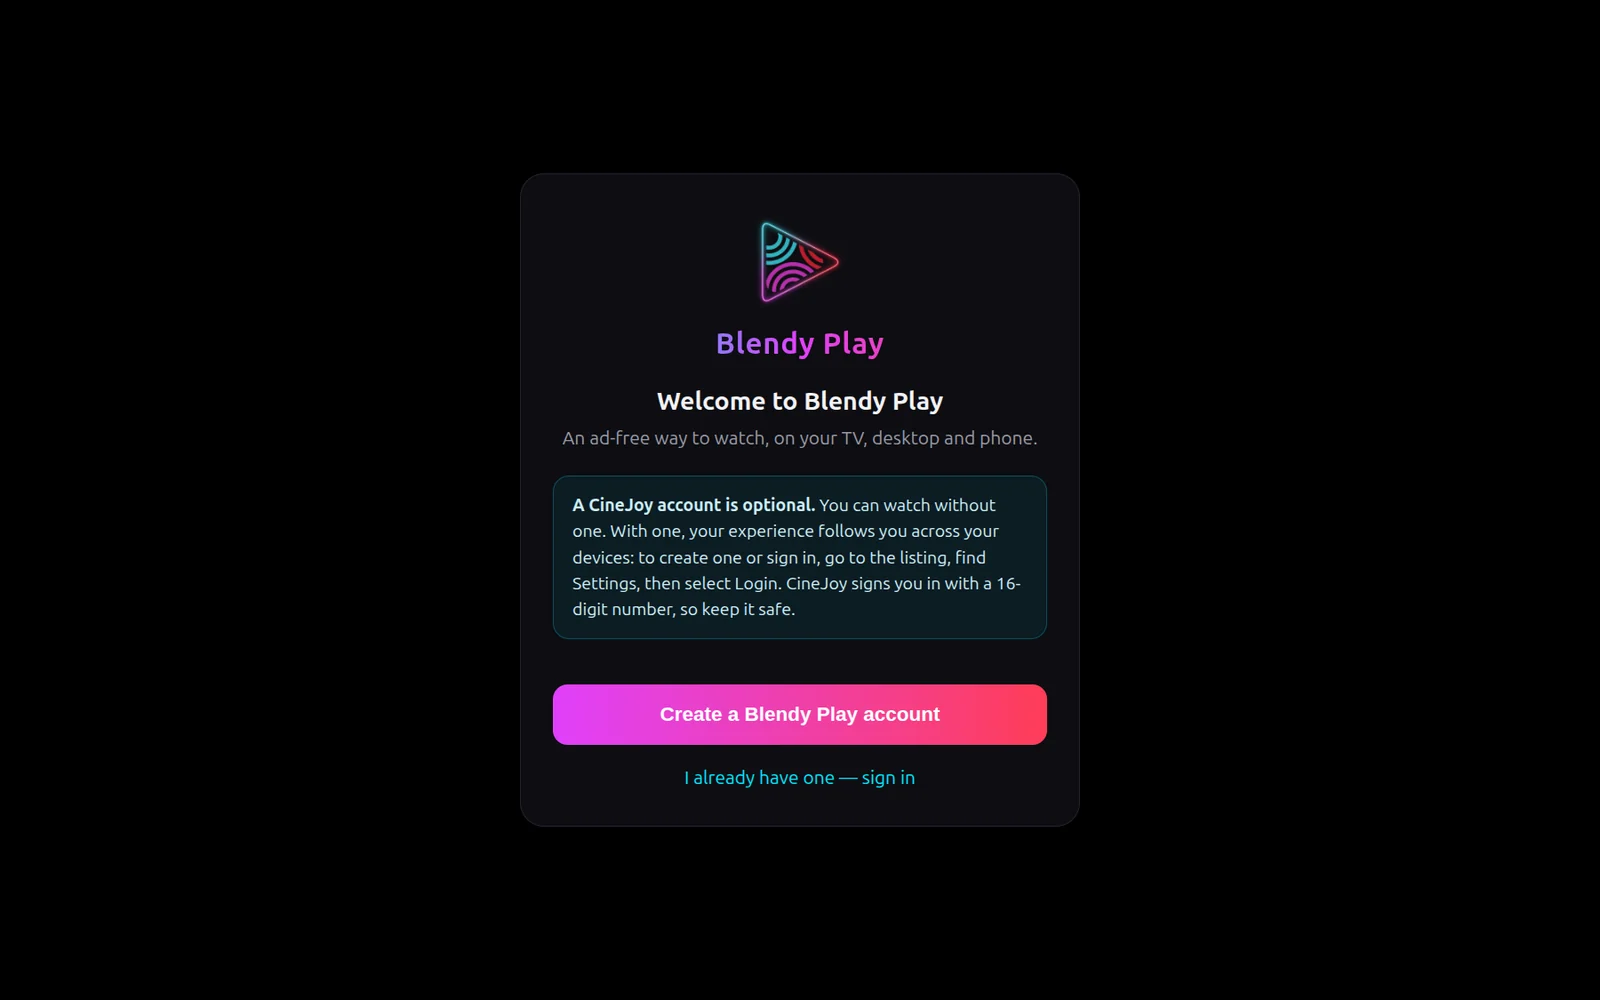
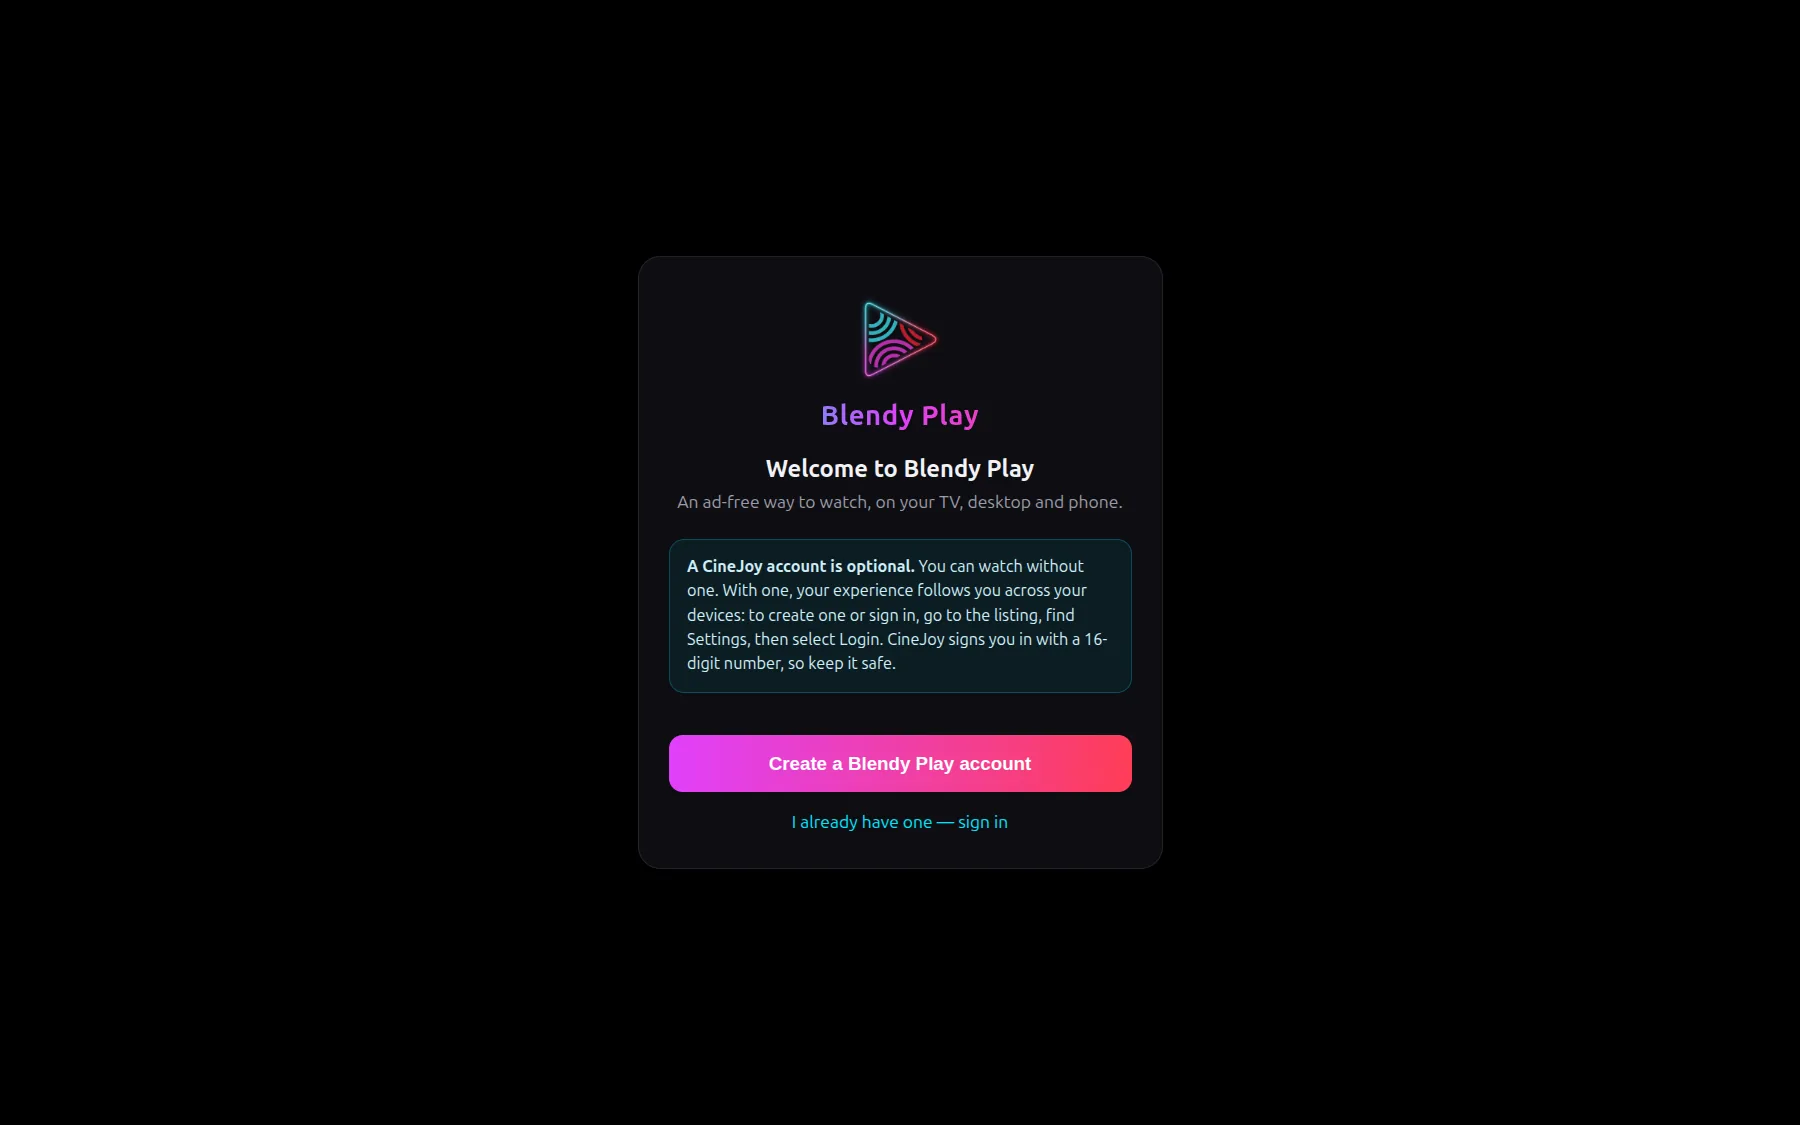
feat(site): show email verification and the listing in the gallery
The gallery had three screens per device, and on TV and desktop the
plans screen was cut off at the top and bottom. It now has six:
welcome, the emailed-code check, plans, My Subscription, and two
views of the listing as the app shows it (ads blocked, Blendy Play's
logo). Each is captured with the whole screen in view: the zoom is
lowered where a screen wouldn't fit, and the listing shots are framed
on two complete rows.

Changed region(s): [[0.3438, 0.217, 0.6562, 0.744], [0.4375, 0.775, 0.5625, 0.806]]

diff --git a/public/screenshots/README.md b/public/screenshots/README.md
@@ -4,5 +4,8 @@ The product page's gallery reads `screenshots.json`: for each device
 (`phone`, `tv`, `desktop`) a list of images with a caption. To change the
 gallery, drop new images here and edit the list. WebP keeps them small.
 
-The current set shows Blendy Play's own screens (welcome, plans, My
-Subscription), captured from the apps' account page at each device size.
+The current set shows Blendy Play's own screens (welcome, the emailed-code
+check, plans, My Subscription) and two views of the listing as the app shows
+it (ads blocked, Blendy Play's logo). Each is captured at the device's size
+with the whole screen in view: the zoom is lowered where a screen wouldn't
+fit, and the listing shots are framed on two complete rows.
